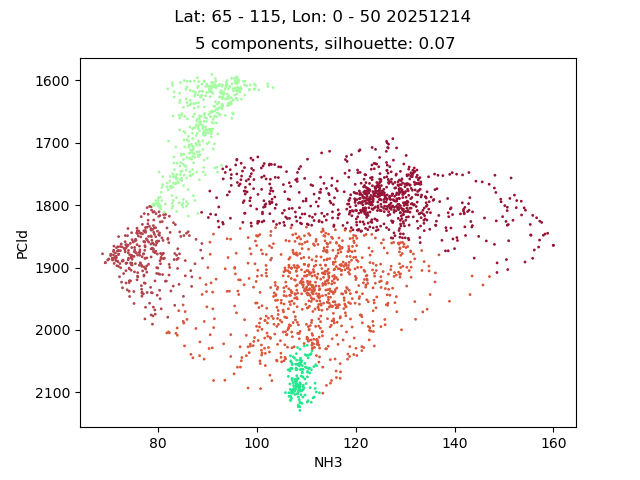
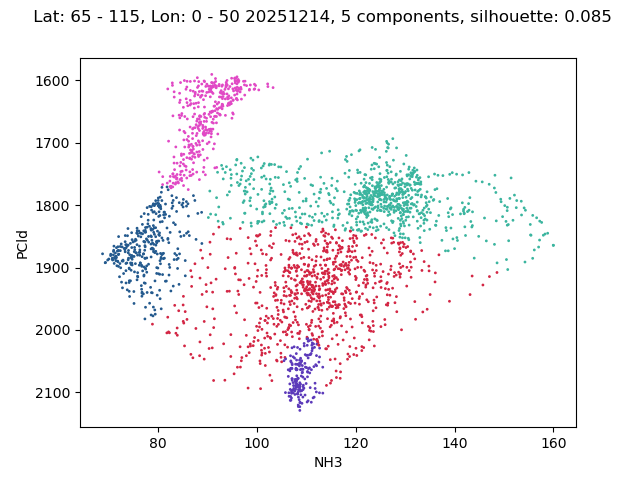
feat: change process to put plot and map in same output file

diff --git a/scripts/processes.py b/scripts/processes.py
@@ -17,9 +17,13 @@ def output_cluster_map_and_plot(date, keywords, param_ranges, n_comp = 5, cov_ty
     sil_score = str(round(silhouette_score(input_arr, pred), 3))
     colors = np.random.rand(n_comp, 3)
     cmap = ListedColormap(colors)
-    MP.create_cluster_map(date, n_comp, pred, input_arr, subset_shape, sil_score, latRng, lngRng, cmap, cm_num)
-    PL.create_cluster_plot(date, keywords, input_arr, pred, sil_score, n_comp, cov_type, latRng, lngRng, cmap, cm_num)
 
+    fig, axis = pl.subplots(2, 1)
+    MP.create_cluster_map(axis[0], date, n_comp, pred, input_arr, subset_shape, sil_score, latRng, lngRng, cmap, cm_num)
+    PL.create_cluster_plot(axis[1], date, keywords, input_arr, pred, sil_score, n_comp, cov_type, latRng, lngRng, cmap, cm_num)
+    fig.suptitle(f' Lat: {latRng[0]} - {latRng[1]}, Lon: {lngRng[0]} - {lngRng[1]} {date}, {n_comp} components, silhouette: {sil_score}')
+    lat_lon_str = f'{latRng[0]}-{latRng[1]}_{lngRng[0]}-{lngRng[1]}'
+    fig.savefig(f'{config["output"]}/{date}_{lat_lon_str}_{n_comp}.png')
 
 def output_cluster_map(date, keywords, param_ranges, n_comp = 5, cov_type = "full", 
                            latRng = [65, 115], lngRng = [0, 50], cm_num = 3):
@@ -28,21 +32,32 @@ def output_cluster_map(date, keywords, param_ranges, n_comp = 5, cov_type = "ful
     sil_score = str(round(silhouette_score(input_arr, pred), 3))
     colors = np.random.rand(n_comp, 3)
     cmap = ListedColormap(colors)
-    MP.create_cluster_map(date, n_comp, pred, input_arr, subset_shape, sil_score, latRng, lngRng, cmap, cm_num)
+    fig, axis = pl.subplots(1, 1)
+    MP.create_cluster_map(axis, date, n_comp, pred, input_arr, subset_shape, sil_score, latRng, lngRng, cmap, cm_num)
+    fig.suptitle(f' Lat: {latRng[0]} - {latRng[1]}, Lon: {lngRng[0]} - {lngRng[1]} {date}, {n_comp} components, silhouette: {sil_score}')
+    lat_lon_str = f'{latRng[0]}-{latRng[1]}_{lngRng[0]}-{lngRng[1]}'
+    fig.savefig(f'{config["output"]}/cluster_maps/spatial_map_{date}_{lat_lon_str}_{n_comp}.png')
 
 
 def output_cluster_plot(date, keywords, param_ranges, n_comp = 5, cov_type = "full", 
                            latRng = [65, 115], lngRng = [0, 50], cm_num = 3):
+    
+   
     [input_arr, subset_shape] = pre.get_input_array(keywords, param_ranges, latRng, lngRng, cm_num)
     pred = CL.create_clusters(input_arr[:, [0,1]], cov_type, n_comp)
+    print(pred)
     sil_score = str(round(silhouette_score(input_arr, pred), 3))
     colors = np.random.rand(n_comp, 3)
     cmap = ListedColormap(colors)
-    PL.create_cluster_plot(date, keywords, input_arr, pred, sil_score, n_comp, cov_type, latRng, lngRng, cmap, cm_num)
+    fig, axis = pl.subplots(1, 1)
+    PL.create_cluster_plot(axis, date, keywords, input_arr, pred, sil_score, n_comp, cov_type, latRng, lngRng, cmap, cm_num)
+    fig.suptitle(f' Lat: {latRng[0]} - {latRng[1]}, Lon: {lngRng[0]} - {lngRng[1]} {date}, {n_comp} components, silhouette: {sil_score}')
+    lat_lon_str = f'{latRng[0]}-{latRng[1]}_{lngRng[0]}-{lngRng[1]}'
+    fig.savefig(f'{config["output"]}/cluster_plots/clusters_{date}_{lat_lon_str}_{cov_type}_{n_comp}_.png')
 
 
-output_cluster_map_and_plot("20251214", ["NH3", "PCld"], [[0, 300], [1000, 3000]], 2)
-#output_cluster_map_and_plot("20251214", ["NH3", "PCld"], [[0, 300], [1000, 3000]], 4)#
+#output_cluster_map("20251214", ["NH3", "PCld"], [[0, 300], [1000, 3000]], 5)
+output_cluster_map_and_plot("20251214", ["NH3", "PCld"], [[0, 300], [1000, 3000]], 4)#
 
 
 #output_cluster_map("20251214", ["NH3", "PCld"], [[0, 300], [1000, 3000]], 5)

diff --git a/scripts/plots/mapping.py b/scripts/plots/mapping.py
@@ -7,8 +7,8 @@ import scripts.clustering.clusters as CL
 from sklearn.metrics import silhouette_score
 from config.config import config
 
-def create_axis(LatLims, LonLims, Ltitle, LonSys):
-    fig3,axs3=pl.subplots(dpi=150, facecolor="white")
+def create_axis(axs3, LatLims, LonLims, LonSys):
+    #fig3,axs3=pl.subplots(dpi=150, facecolor="white")
     axs3.grid(linewidth=0.2)
     axs3.ylim=[LatLims[0] ,LatLims[1]]
     axs3.xlim=[360-LonLims[0],360-LonLims[1]]
@@ -19,7 +19,7 @@ def create_axis(LatLims, LonLims, Ltitle, LonSys):
     axs3.tick_params(axis='both', which='major', labelsize=9)
     axs3.set_ylabel("Planetographic Latitude (deg)",fontsize=10)
     axs3.set_xlabel("Sys. "+ str(LonSys) +" Longitude (deg)",fontsize=10)
-    axs3.set_title(Ltitle,fontsize=10)
+ 
     axs3.set_adjustable('box') 
     return axs3
 
@@ -44,16 +44,14 @@ def plot_patch(patch, LatLims, LonLims, axis, cmap, n_comp):
     im_ratio = patch.shape[0]/patch.shape[1]
 
     
-def create_cluster_map(date, n_comp, pred, input_arr, subset_shape, sil_score,
+def create_cluster_map(axis, date, n_comp, pred, input_arr, subset_shape, sil_score,
                            latRng, lngRng, cmap, cm_num = 3):
-    print(cmap)
+   
     cluster_map = create_cluster_arr(input_arr, subset_shape, pred)
-    LTitle = f'{n_comp} components date:{date} score: {sil_score}'
-    axis = create_axis([latRng[0] - 90, 90 - latRng[1]], lngRng, LTitle, cm_num)
+    create_axis(axis, [latRng[0] - 90, 90 - latRng[1]], lngRng,  cm_num)
     plot_patch(cluster_map, latRng, lngRng, axis, cmap, n_comp)
-    fig = axis.get_figure()
-    lat_lon_str = f'{latRng[0]}-{latRng[1]}_{lngRng[0]}-{lngRng[1]}'
-    fig.savefig(f'{config["output"]}/cluster_maps/spatial_map_{date}_{lat_lon_str}_{n_comp}.png')
+  
+    
 
 
 

diff --git a/scripts/plots/plots.py b/scripts/plots/plots.py
@@ -6,20 +6,18 @@ import scripts.clustering.clusters as CL
 import numpy as np
 
 
-def create_cluster_plot(date, keywords, input_arr, pred, sil_score, n_comp, cov_type, 
+def create_cluster_plot(ax, date, keywords, input_arr, pred, sil_score, n_comp, cov_type, 
                         latRng, lngRng, cmap, cm_num = 3
                         ):
  
  
     #print("silhouette score: " + str(silhouette_score(input_arr, pred)))
-    fig, ax = plt.subplots()
+    #fig, ax = plt.subplots()
     ax.yaxis.set_inverted(True)
-    plt.scatter(input_arr[:, 0], input_arr[:, 1],c = pred,s = 1, cmap = cmap)
-    plt.suptitle(f' Lat: {latRng[0]} - {latRng[1]}, Lon: {lngRng[0]} - {lngRng[1]} {date}')
-    plt.title(f'{n_comp} components, silhouette: {sil_score} ')
-    plt.xlabel(keywords[0])
-    plt.ylabel(keywords[1])
-    lat_lon_str = f'{latRng[0]}-{latRng[1]}_{lngRng[0]}-{lngRng[1]}'
-    plt.savefig(f'{config["output"]}/cluster_plots/clusters_{date}_{lat_lon_str}_{cov_type}_{n_comp}_.png')
+    ax.scatter(input_arr[:, 0], input_arr[:, 1],c = pred,s = 1, cmap = cmap)
+    
+    ax.set_xlabel(keywords[0])
+    ax.set_ylabel(keywords[1])
+    
     return 0
 

diff --git a/scripts/clustering/clusters.py b/scripts/clustering/clusters.py
@@ -10,13 +10,17 @@ import scripts.preprocessing.preprocessing as pre
 matplotlib.use('Agg')
 from sklearn.metrics import silhouette_score
 from config.config import config
+from sklearn.pipeline import Pipeline
+from sklearn.preprocessing import StandardScaler
 
 
 def create_clusters(pix_arr, cov_type, n_components):
     gmm_model = GMM(n_components=n_components, covariance_type=cov_type)
+    pipe = Pipeline([('scaler', StandardScaler()), ('gmm', gmm_model)])
     print("fitting model...")
-    gmm_model.fit(pix_arr)
-    predictions = gmm_model.predict(pix_arr)
+    pipe.fit(pix_arr)
+    predictions = pipe.predict(pix_arr)
+    print(predictions)
     return predictions
 
 
